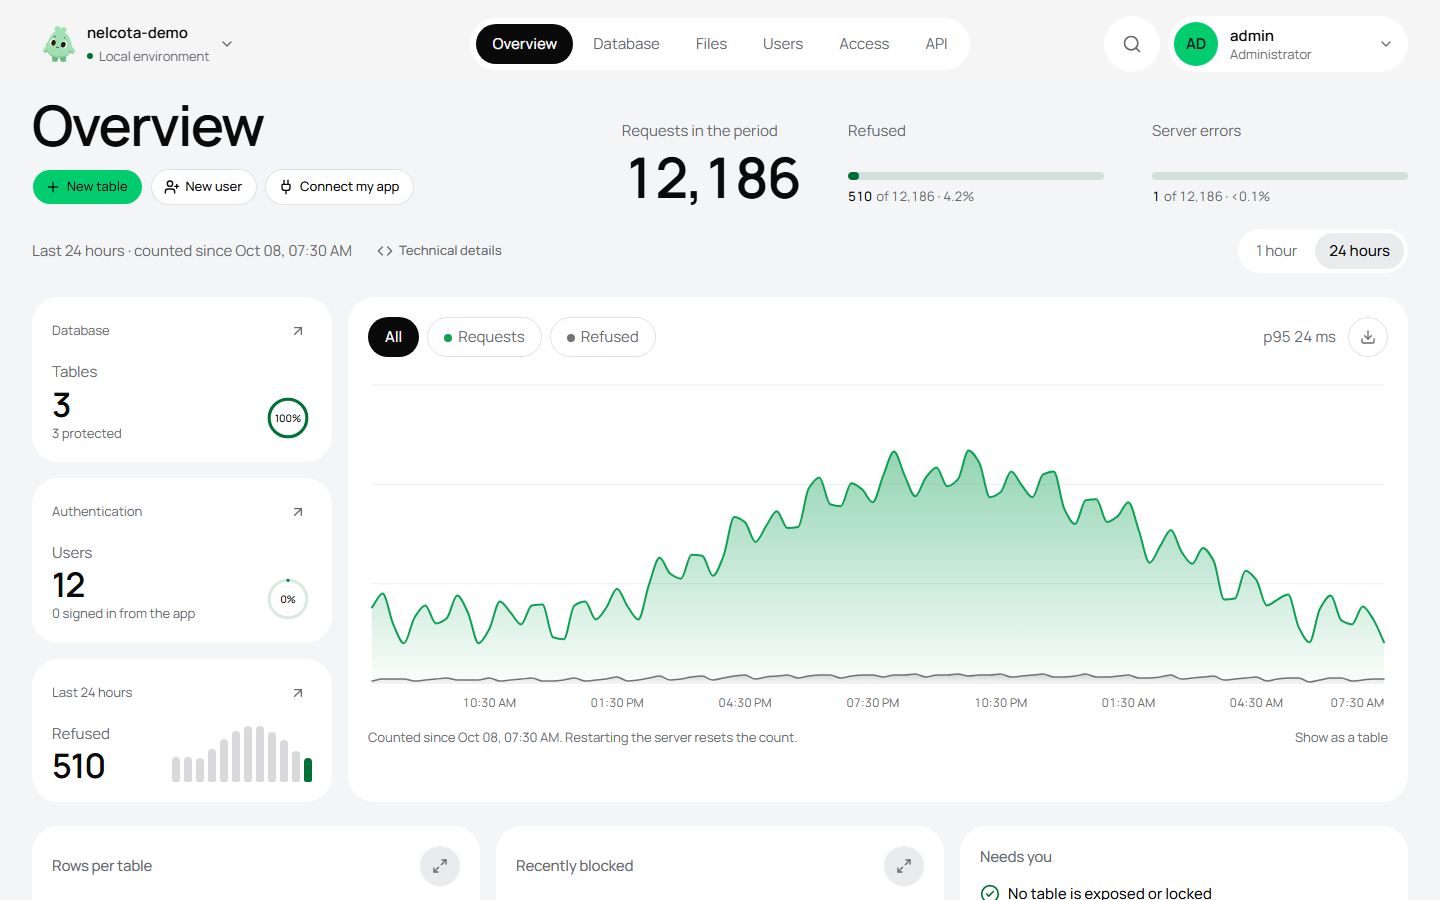
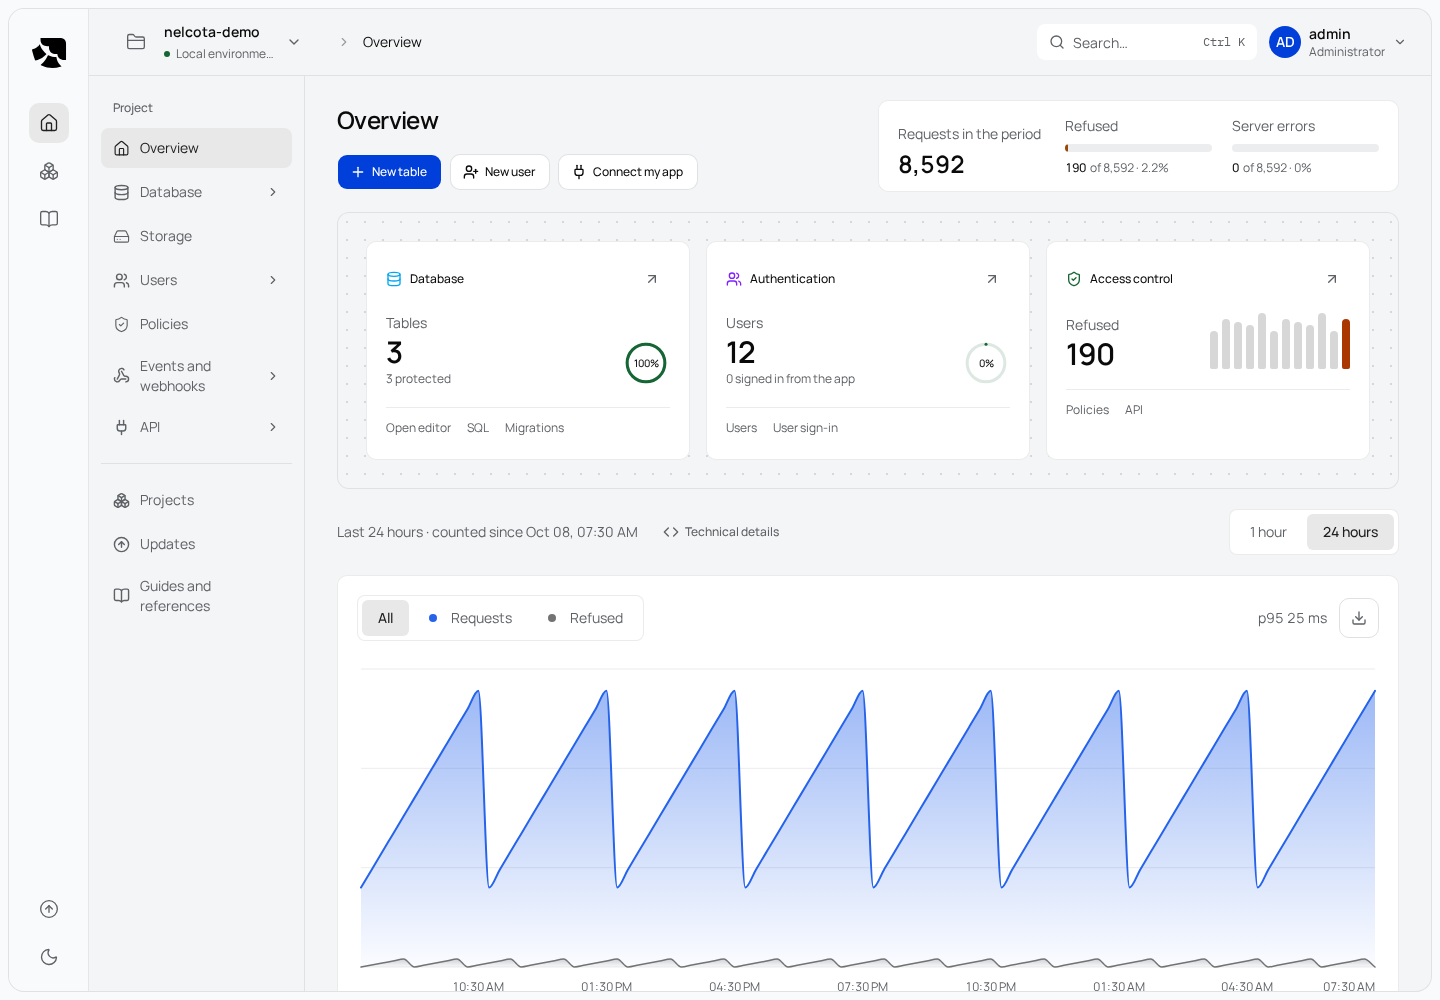
chore(panel): refresh panel screenshots from Nelcota README

diff --git a/src/i18n/pt-br.ts b/src/i18n/pt-br.ts
@@ -200,7 +200,7 @@ export const ptBr = {
   },
   showcase: {
     overviewAlt:
-      'Visão geral do painel do Nelcota com gráficos de tráfego da API, contagem de tabelas e usuários e próximos passos',
+      'Visão geral do painel do Nelcota com o total de requisições, cartões de banco de dados, autenticação e controle de acesso e um gráfico de tráfego da API',
     tableAlt:
       'Editor de tabelas do Nelcota mostrando as linhas de uma tabela notes protegida por RLS',
   },

diff --git a/src/i18n/en.ts b/src/i18n/en.ts
@@ -203,7 +203,7 @@ export const en = {
   },
   showcase: {
     overviewAlt:
-      'Nelcota admin panel overview with API traffic charts, table and user counts, and setup steps',
+      'Nelcota admin panel overview with request totals, database, authentication and access-control cards, and an API traffic chart',
     tableAlt: 'Nelcota table editor showing the rows of a notes table protected by RLS',
   },
   why: {
